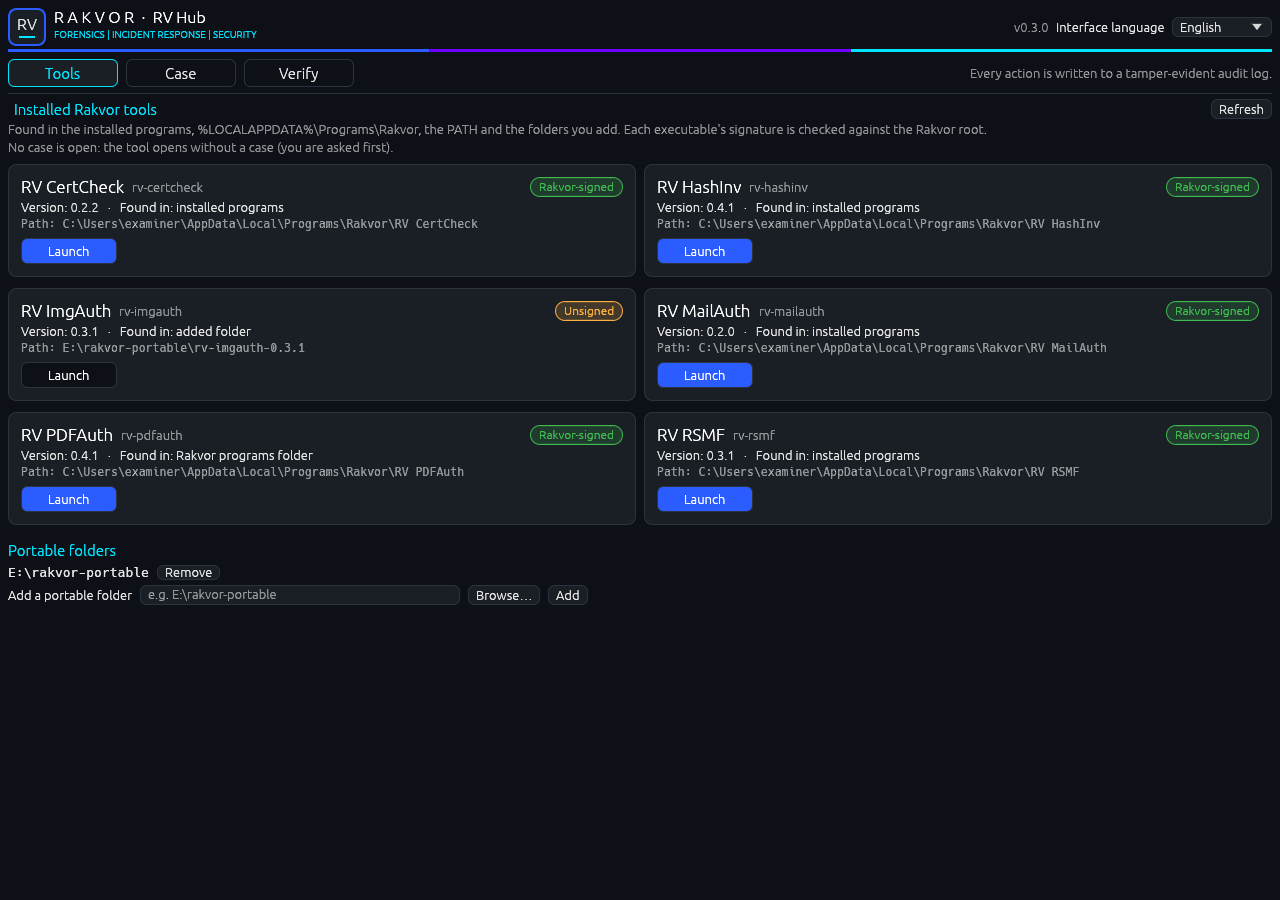
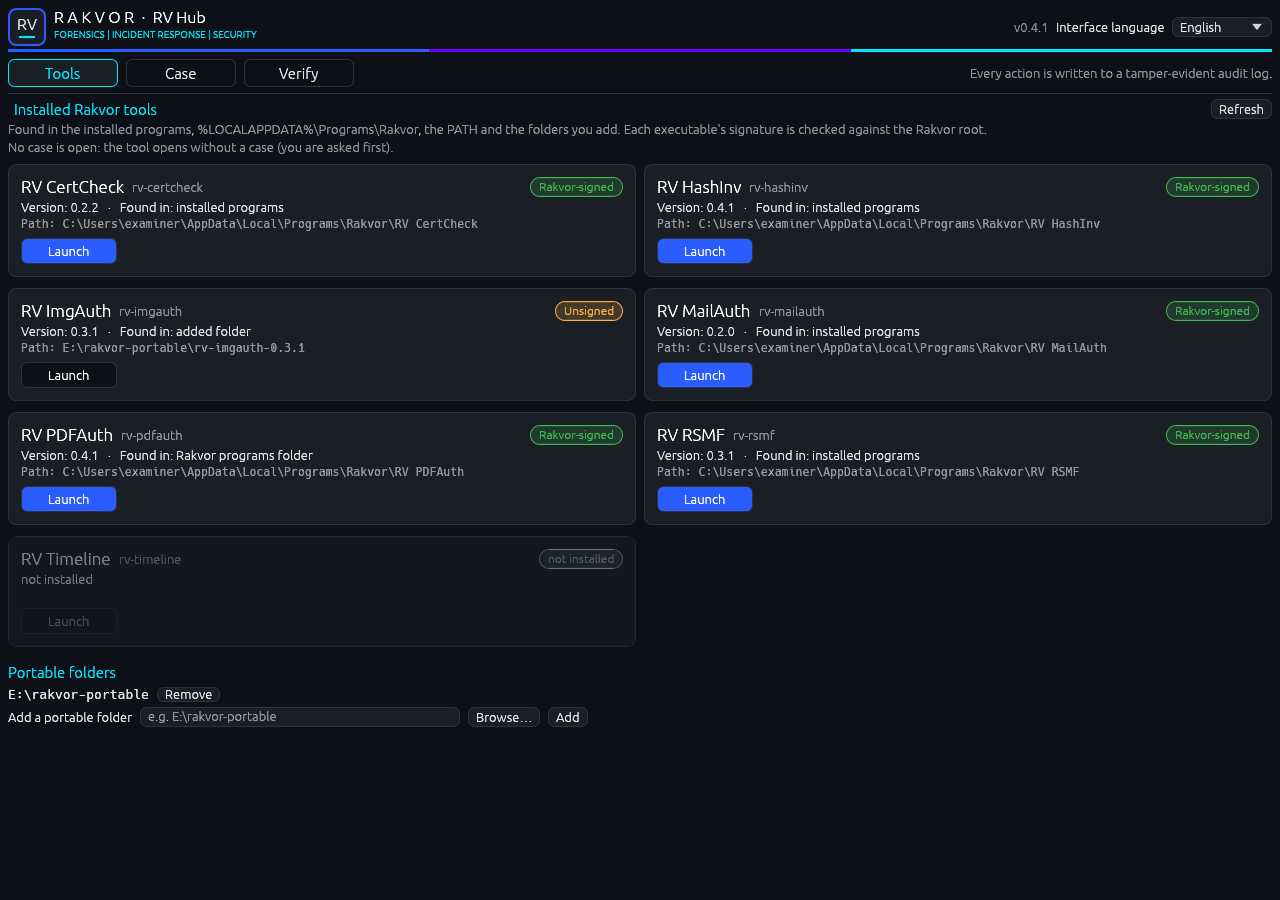
docs: RV Timeline as the seventh known tool, the timeline suggestion rule, screenshots
README, usage, usage-gui, theory (B1 AppIds, B10 rule and diagram), architecture,
case-folder, admissibility, HANDOFF and CHANGELOG list rv-timeline. The Tools and
Case screenshots are regenerated: RV Timeline (not released) is shown not installed,
and the sample case's suggestion is now timeline_not_built.

diff --git a/docs/theory.md b/docs/theory.md
@@ -44,7 +44,7 @@ whether they are genuine, to open a tool on a case, to see what has been done in
 and, before a case is handed over, to check that nothing recorded in the case has changed.
 
 RV Hub does **not** examine evidence. It does not decide whether a document is forged or a photo edited; the
-analysis tools (rv-pdfauth, rv-imgauth, rv-certcheck, rv-mailauth) report signals for an examiner to weigh, and each of them
+analysis tools (rv-pdfauth, rv-imgauth, rv-certcheck, rv-mailauth, rv-timeline) report signals for an examiner to weigh, and each of them
 documents its own method. RV Hub never changes what the tools wrote. When it finds a problem, it reports it and
 leaves the files exactly as they were, so the examiner can explain them.
 
@@ -63,7 +63,7 @@ Only the intake tool, rv-hashinv, opens a new binder and adds evidence to the re
 
 ```mermaid
 flowchart LR
-    I["1 · Intake<br/>rv-hashinv registers E0001…"] --> A["2 · Analysis<br/>rv-pdfauth · rv-imgauth<br/>rv-rsmf · rv-certcheck<br/>rv-mailauth"]
+    I["1 · Intake<br/>rv-hashinv registers E0001…"] --> A["2 · Analysis<br/>rv-pdfauth · rv-imgauth<br/>rv-rsmf · rv-certcheck<br/>rv-mailauth · rv-timeline"]
     A --> V["3 · Verify<br/>RV Hub checks every diary<br/>and every link"]
     V --> H["4 · Hand over<br/>case folder + verification report"]
     I -.-> C[("Case folder")]
@@ -160,14 +160,14 @@ Source map (all under `src/core/src/`): discovery `tools.rs`; signature `signatu
 
 | # | Source (`Source`) | What is read | Restriction |
 | --- | --- | --- | --- |
-| 1 | `registry {app_id}` | `HKCU\Software\Microsoft\Windows\CurrentVersion\Uninstall\{AppId}_is1` → `InstallLocation`, `DisplayVersion`, for the six AppIds in `APP_IDS` (Windows only) | the six known tools; another `rv-*` only when Rakvor-signed |
-| 2 | `local_programs` | every direct subfolder of `%LOCALAPPDATA%\Programs\Rakvor` | the six known tools; another `rv-*` only when Rakvor-signed |
-| 3 | `path` | every folder of `PATH` | **the six known tools only** (`KNOWN_TOOLS`) |
+| 1 | `registry {app_id}` | `HKCU\Software\Microsoft\Windows\CurrentVersion\Uninstall\{AppId}_is1` → `InstallLocation`, `DisplayVersion`, for the seven AppIds in `APP_IDS` (Windows only) | the seven known tools; another `rv-*` only when Rakvor-signed |
+| 2 | `local_programs` | every direct subfolder of `%LOCALAPPDATA%\Programs\Rakvor` | the seven known tools; another `rv-*` only when Rakvor-signed |
+| 3 | `path` | every folder of `PATH` | **the seven known tools only** (`KNOWN_TOOLS`) |
 | 4 | `user_folder` | each folder the user added, and its direct subfolders | any `rv-*` |
 
 `rv-hub` itself is excluded. A name outside `KNOWN_TOOLS` is run (`describe --json`) only from a folder the user
 added, or when its executable is Rakvor-signed; otherwise it is neither run nor listed. On Linux and macOS, where
-signatures are *not checked*, only the six known tools are run from sources 1–3. When several sources find the same folder, the entry is listed once with every source
+signatures are *not checked*, only the seven known tools are run from sources 1–3. When several sources find the same folder, the entry is listed once with every source
 (the sample test finds one rv-pdfauth folder through the registry, the install folder and `PATH`). The same tool in
 two different folders gives two entries; `launch` then prefers a Rakvor-signed GUI, then the lowest source, then the
 folder name (`src/cli/src/hub.rs` `pick`).
@@ -182,6 +182,7 @@ The known AppIds (`tools.rs` `APP_IDS`):
 | `{04A0C3C3-4929-42ED-81F7-93DB361940C8}` | rv-imgauth (corrected AppId, from 0.2.1) | |
 | `{32343DE5-B0E4-4454-8A42-A5CF82EEC9BF}` | rv-certcheck | |
 | `{0D5428B0-B438-4B0F-804F-C48582CC8A7B}` | rv-mailauth | |
+| `{BE690C03-DA5F-42F0-9284-A86D5FF89D0E}` | rv-timeline | |
 
 A test (`installer_app_ids_are_unique`) checks that these and the hub's own installer AppId
 `{703D49A5-7B83-4C62-A97F-ED13C341CC23}` are all different.
@@ -607,8 +608,9 @@ anything either.
 | --- | --- | --- |
 | `case.json` missing or without `case_id` | the intake tool | `no_case` |
 | a case with no registered evidence | the intake tool | `no_evidence` |
-| for each non-intake tool that does not accept "any file", in the order rv-pdfauth, rv-imgauth, rv-rsmf, rv-certcheck, rv-mailauth, then others: registered items that are not superseded, not yet examined by that tool, and that it accepts | that tool, with the evidence ids | `pdf_not_analysed`, `images_not_analysed`, `chats_not_converted`, `certs_not_analysed`, `mail_not_analysed`, `not_examined` |
+| for each non-intake tool that does not accept "any file" (rv-timeline excepted: it reads the case folder, never an evidence file), in the order rv-pdfauth, rv-imgauth, rv-rsmf, rv-certcheck, rv-mailauth, then others: registered items that are not superseded, not yet examined by that tool, and that it accepts | that tool, with the evidence ids | `pdf_not_analysed`, `images_not_analysed`, `chats_not_converted`, `certs_not_analysed`, `mail_not_analysed`, `not_examined` |
 | Outlook `.msg` files whose message class cannot be read or is neither an email nor a Teams message, examined by neither rv-rsmf nor rv-mailauth | rv-rsmf and rv-mailauth (after each tool's own suggestion) | `msg_ambiguous` |
+| completed runs of two or more tools whose role is intake or analysis (RV Hub's and rv-timeline's own runs excluded), and no completed rv-timeline run newer than the newest of them | rv-timeline | `timeline_not_built` (no completed timeline run), `timeline_outdated` (with the runs the newest timeline does not cover) |
 | runs whose timestamp status is pending | `<tool> timestamp`, with the run folders | `timestamp_pending` |
 
 "Accepts" (`suggest::accepts`) uses the catalogue: each discovered tool's `describe`, completed by the built-in table
@@ -646,6 +648,27 @@ flowchart TD
 ambiguous `.msg` that either tool has already examined is not suggested again: the examiner has decided what it is.
 The class is a property written by the program that saved the file; it says what the item claims to be, not that it
 is authentic.
+
+**The case timeline (rv-timeline).** rv-timeline puts the events of the case log and of every other tool's runs in
+one timeline; it reads the case folder, so its `accepts` list (`.json`, `.jsonl`) is never matched against
+registered evidence. `suggest::timeline` counts the tools with at least one **completed** run whose role is intake or
+analysis: the role the run recorded in the case log (`run_started.details.role`; rv-rsmf's runs record
+"analysis"), else the tool's described role. RV Hub (`rv-hub`) and rv-timeline itself are not counted. With fewer
+than two such tools, nothing is suggested. Otherwise a completed rv-timeline run **covers** a counted run when it
+started (`ts_utc` of its `run_started`) after that run finished (`run_finished`, else `run_started`), or, when a
+time is missing, when it comes later in the case log. No completed timeline run: `timeline_not_built`. Completed
+timeline runs, none covering every counted run: `timeline_outdated`, with the counted runs the newest timeline does
+not cover in `run_dirs`. A failed, cancelled or unfinished rv-timeline run is ignored.
+
+```mermaid
+flowchart TD
+    R["completed runs of intake / analysis tools<br/>(not rv-hub, not rv-timeline)"] --> N{"two or more tools?"}
+    N -- "no" --> X["no timeline suggestion"]
+    N -- "yes" --> T{"completed rv-timeline run?"}
+    T -- "none" --> NB["rv-timeline: timeline_not_built"]
+    T -- "one started after the newest run finished" --> X
+    T -- "all older than some run" --> O["rv-timeline: timeline_outdated<br/>(runs not covered)"]
+```
 
 Consequence seen in the sample: the registry records the paths the evidence had at intake (a temporary folder that no
 longer exists), so without `--evidence-dir` the hub cannot read the files and suggests nothing for the `.txt` items;

diff --git a/README.md b/README.md
@@ -10,17 +10,17 @@
 ![License](https://img.shields.io/badge/license-Rakvor%20source--auditable-6B00FF)
 ![Windows 10/11](https://img.shields.io/badge/Windows-10%20%7C%2011-0078D6)
 
-RV Hub is the one window an examiner opens first. The six Rakvor tools stay separate, separately signed
+RV Hub is the one window an examiner opens first. The seven Rakvor tools stay separate, separately signed
 programs; the hub sits beside them and does five things:
 
-1. **Finds** the installed tools (rv-hashinv, rv-pdfauth, rv-imgauth, rv-rsmf, rv-certcheck, rv-mailauth), with their
+1. **Finds** the installed tools (rv-hashinv, rv-pdfauth, rv-imgauth, rv-rsmf, rv-certcheck, rv-mailauth, rv-timeline), with their
    version and the SHA-256 of each executable.
 2. **Checks** each tool's Authenticode signature, and that its certificate chain ends at the Rakvor root bundled in
    the hub (Windows).
 3. **Launches** a tool's desktop app on a case folder (`<tool>-gui.exe --case-dir CASE`), and records which
    executable was started, on which case, by whom.
 4. **Shows** a read-only case dashboard: evidence, runs, findings by severity, timestamp status, and suggested next
-   steps (which tool has not yet examined which item).
+   steps (which tool has not yet examined which item, and when to build or rebuild the case timeline).
 5. **Verifies the whole case** (`rv-hub verify`): the case log, every run's audit log, review log and timestamps, the
    links between them, and optionally every evidence file again; then it asks each run's own tool to verify its logs
    too (`<tool> verify-log`) and compares the two answers.
@@ -35,11 +35,12 @@ flowchart LR
         T4[["rv-rsmf"]]
         T5[["rv-certcheck"]]
         T6[["rv-mailauth"]]
+        T7[["rv-timeline"]]
     end
     CASE[("Case folder<br/>case.json · case-log.jsonl<br/>evidence/ · runs/")]
-    HUB -- "discover + signature check" --> T1 & T2 & T3 & T4 & T5 & T6
+    HUB -- "discover + signature check" --> T1 & T2 & T3 & T4 & T5 & T6 & T7
     HUB -- "launch --case-dir" --> T2
-    T1 & T2 & T3 & T4 & T5 & T6 -- "each writes its own run" --> CASE
+    T1 & T2 & T3 & T4 & T5 & T6 & T7 -- "each writes its own run" --> CASE
     HUB -. "reads (dashboard)" .-> CASE
     HUB -- "verify: writes only runs/rv-hub/ + 2 case-log entries" --> CASE
     HUB -- "cross-check: verify-log" --> T2
@@ -48,7 +49,7 @@ flowchart LR
 ## Contents
 
 - [What it does, and what it does not do](#what-it-does-and-what-it-does-not-do)
-- [The six tools and how they are found](#the-six-tools-and-how-they-are-found)
+- [The seven tools and how they are found](#the-seven-tools-and-how-they-are-found)
 - [Install](#install)
 - [Quick start: desktop app](#quick-start-desktop-app)
 - [Quick start: command line](#quick-start-command-line)
@@ -70,7 +71,7 @@ flowchart LR
 | Ask each run's own tool for its `verify-log` verdict and report any disagreement (high severity) | Prove that a tool's findings are correct, or that the evidence is authentic: verification shows integrity, not content |
 | Write its verification as a run of its own (`runs/rv-hub/<RUN-ID>/`), linked in the case log | Write anything else in the case: two case-log entries (`run_started`, `run_finished`) are its only change outside its own run folder |
 
-## The six tools and how they are found
+## The seven tools and how they are found
 
 | Tool | Role | Accepts (built-in table) | Repository |
 | --- | --- | --- | --- |
@@ -80,10 +81,16 @@ flowchart LR
 | **rv-rsmf** | conversion: chat exports to RSMF 2.0 | `.txt` (only when it looks like a chat export), `.json`, `.html`, `.htm`, `.msg` (Teams), `.csv` | [Panacota96/rv-rsmf](https://github.com/Panacota96/rv-rsmf) |
 | **rv-certcheck** | analysis: certificates, CRLs, timestamp tokens, keys, CSRs | `.crt .cer .der .pem .p7b .p7c .p12 .pfx .crl .tsr .tst .key .csr`, or DER / PEM content | [Panacota96/rv-certcheck](https://github.com/Panacota96/rv-certcheck) |
 | **rv-mailauth** | analysis: email authenticity signals (.eml, Outlook .msg, .mbox) | `.eml .mbox .msg`, or a compound file (`.msg`) / a first line `From ` (mbox) | [Panacota96/rv-mailauth](https://github.com/Panacota96/rv-mailauth) |
+| **rv-timeline** | analysis: one timeline of the case from the case log and every other tool's runs (`build --case-dir`; not released yet) | the case folder only (its `.json`/`.jsonl` files), never an evidence file | [Panacota96/rv-timeline](https://github.com/Panacota96/rv-timeline) |
 
 An Outlook `.msg` is accepted by both rv-mailauth and rv-rsmf: the case view reads its message class and suggests
 rv-mailauth for an email (`IPM.Note…`), rv-rsmf for a Teams message (`IPM.SkypeTeams.…`), and both when the class
 cannot be read ([theory.md B10](docs/theory.md#b10-the-dashboard-and-the-suggestion-rules)).
+
+rv-timeline reads the case folder, never an evidence file. It is suggested once completed runs of two or more
+intake or analysis tools exist and no completed rv-timeline run started after the newest of them finished
+(`timeline_not_built`, or `timeline_outdated` with the runs the timeline does not cover). RV Hub's own
+verification runs do not count, and a case with runs of fewer than two such tools gets no timeline suggestion.
 
 Discovery looks in four places, in this order, and lists an executable found by several sources once, with every
 source ([theory.md B1](docs/theory.md#b1-discovery)):
@@ -91,7 +98,7 @@ source ([theory.md B1](docs/theory.md#b1-discovery)):
 1. the Windows uninstall registry, `HKCU\Software\Microsoft\Windows\CurrentVersion\Uninstall\{AppId}_is1`, for the
    tools' known installer AppIds;
 2. `%LOCALAPPDATA%\Programs\Rakvor\*\` (where every Rakvor installer puts its tool);
-3. the folders of `PATH` (the six known tool names only);
+3. the folders of `PATH` (the seven known tool names only);
 4. folders you add (for example portable zips on a USB stick), and their direct subfolders.
 
 Each Rakvor-signed tool is asked `describe --json` (schema `rakvor.describe/1`, 10 s limit) for its version and what

diff --git a/docs/architecture.md b/docs/architecture.md
@@ -4,7 +4,7 @@ One engine, two front-ends. The engine (`src/core`, crate `rv_hub_core`) does al
 CLI and the GUI turn user input into calls of its public API and render what it returns (for the main verb, the
 `Event` stream). Both interfaces therefore produce identical logs and reports.
 
-RV Hub is the main app of the six Rakvor tools (rv-hashinv, rv-pdfauth, rv-imgauth, rv-rsmf, rv-certcheck, rv-mailauth). Each tool stays a
+RV Hub is the main app of the seven Rakvor tools (rv-hashinv, rv-pdfauth, rv-imgauth, rv-rsmf, rv-certcheck, rv-mailauth, rv-timeline). Each tool stays a
 separate signed program; the hub discovers them, checks their signatures, launches them on a case folder, shows a
 read-only case dashboard with next-step suggestions, and verifies the whole case.
 
@@ -151,7 +151,7 @@ sequenceDiagram
 ```
 
 Run items carry two verdicts. **Full** is exactly `verify::verify_log` (chain, timestamp tokens, review log,
-truncation against the timestamp and the case log, and the re-hash of the recorded outputs, `outputs.rs`): what rv-hashinv, rv-rsmf, rv-certcheck and rv-mailauth's
+truncation against the timestamp and the case log, and the re-hash of the recorded outputs, `outputs.rs`): what rv-hashinv, rv-rsmf, rv-certcheck, rv-mailauth and rv-timeline's
 `verify-log` answer. **Chain** leaves out the truncation check against the case log: what rv-pdfauth and rv-imgauth's current
 `verify-log` answer ([rv-hub#21](https://github.com/Panacota96/rv-hub/issues/21)). The cross-check accepts the
 tool's verdict when it equals the full one, or, for rv-pdfauth and rv-imgauth only (no truncation check), the
@@ -196,7 +196,9 @@ hash they cover (`trust::verify_timestamps`), not for the TSA's CMS signature.
 at most the first few kilobytes of an evidence file, read-only, and only when it exists. For an Outlook `.msg` (or
 any compound file) it also reads the MAPI message class with the `cfb` crate, read-only, to choose between
 rv-mailauth (email) and rv-rsmf (Teams), or to suggest both when the class is unreadable
-([theory.md B10](theory.md#b10-the-dashboard-and-the-suggestion-rules)).
+([theory.md B10](theory.md#b10-the-dashboard-and-the-suggestion-rules)). rv-timeline is suggested from the runs
+table, not from the evidence: once two or more intake/analysis tools have completed runs and no completed timeline
+run is newer than the newest of them.
 
 ## GUI state
 

diff --git a/docs/admissibility.md b/docs/admissibility.md
@@ -83,7 +83,7 @@ annex of Implementing Regulation (EU) 2025/1929.
 ```mermaid
 flowchart LR
     A["Acquisition<br/>(imaging, write-blocker:<br/>outside the toolkit)"] --> B["Intake<br/>rv-hashinv registers E0001…"]
-    B --> C["Analysis / conversion<br/>rv-pdfauth · rv-imgauth<br/>rv-rsmf · rv-certcheck · rv-mailauth"]
+    B --> C["Analysis / conversion<br/>rv-pdfauth · rv-imgauth<br/>rv-rsmf · rv-certcheck · rv-mailauth<br/>rv-timeline"]
     C --> D["Verification<br/>RV Hub verify (H6–H9)"]
     D --> E["Report and testimony<br/>(examiner)"]
     T["Tool identity<br/>H1 · H2 · H3 · H4"] -.-> B
@@ -275,7 +275,7 @@ These are stated here so that nobody has to find them by cross-examination. Each
    matching evidence hash does not make the evidence authentic, nor show anything that happened before intake. A
    timestamp proves when a log existed, not that the examined copy matches the original source.
 4. **The tools' `verify-log` commands differ** ([rv-hub#21](https://github.com/Panacota96/rv-hub/issues/21)).
-   rv-hashinv, rv-rsmf, rv-certcheck and rv-mailauth check the run against the case log; rv-pdfauth and rv-imgauth do not. For
+   rv-hashinv, rv-rsmf, rv-certcheck, rv-mailauth and rv-timeline check the run against the case log; rv-pdfauth and rv-imgauth do not. For
    these two only, the hub accepts an answer that equals either its full or its chain-only verdict; where the two
    verdicts differ (truncation against the case log, or a broken case log), the cross-check cannot detect that they
    miss that check. Every other tool is compared with the full verdict. The hub's own `RUN_LOG_BROKEN` / `CASE_LOG_BROKEN` findings are unaffected

diff --git a/docs/usage.md b/docs/usage.md
@@ -111,7 +111,7 @@ Runs:
 Problems: none
 
 Suggested next steps:
-  No suggestion: every registered item has been examined.
+  - rv-hub launch rv-timeline: Runs of two or more tools are complete and no case timeline has been built yet: RV Timeline puts their events in one timeline.
 ```
 
 The numbers come from the tools' own `statistics.json`, as they are: this is a summary, not a verification. A
@@ -122,7 +122,10 @@ with an email header block) are suggested to rv-mailauth. An Outlook `.msg` goes
 cannot be read (a damaged or missing file) or is another one, both are suggested with the reason "the file type is
 ambiguous" (`msg_ambiguous`): open it with the tool that fits. When the evidence is no longer at its registered
 path, give its folder so the hub can look inside: `rv-hub case --case-dir D:\cases\CASE-2026-014 --evidence-dir
-F:\copies` ([theory.md B10](theory.md#b10-the-dashboard-and-the-suggestion-rules)). Decide yourself; ignoring a
+F:\copies` ([theory.md B10](theory.md#b10-the-dashboard-and-the-suggestion-rules)). rv-timeline reads the case folder, never an evidence file. It is suggested once completed runs of two or more
+intake or analysis tools exist and no completed rv-timeline run started after the newest of them finished
+(`timeline_not_built`, or `timeline_outdated` with the runs the timeline does not cover). RV Hub's own
+verification runs do not count, and a case with runs of fewer than two such tools gets no timeline suggestion. In the sample, four tools' runs are complete and there is no timeline yet. Decide yourself; ignoring a
 suggestion has no effect on the case.
 
 ### 2.4 Launch the analysis tools

diff --git a/docs/HANDOFF.md b/docs/HANDOFF.md
@@ -82,7 +82,8 @@ variables or prompts and never logged; no GPL/AGPL/LGPL components; tools report
 
 ## 6. Open work
 
-- Known tools (`tools::KNOWN_TOOLS`): rv-hashinv, rv-pdfauth, rv-imgauth, rv-rsmf, rv-certcheck, rv-mailauth. A new
+- Known tools (`tools::KNOWN_TOOLS`): rv-hashinv, rv-pdfauth, rv-imgauth, rv-rsmf, rv-certcheck, rv-mailauth,
+  rv-timeline. A new
   tool needs its entry in `KNOWN_TOOLS`, `APP_IDS` and `builtin` (`src/core/src/tools.rs`), a reason key in
   `suggest.rs` and `i18n/*.json` (`suggest`), and the docs that list the tools.
 - `.msg` routing between rv-mailauth and rv-rsmf relies on PR_MESSAGE_CLASS (`suggest::MsgKind`); it was tested on
@@ -95,7 +96,7 @@ variables or prompts and never logged; no GPL/AGPL/LGPL components; tools report
   (`RUN_OUTPUT_CHANGED`, high, one per file; tally `runs_outputs_changed`). Tool releases made before their
   `verify-log` re-hashed outputs answer *intact* on a run with an edited report: the hub reports that as
   `TOOL_VERIFY_DISAGREES` with the reason ([ADR 0004](adr/0004-case-verdicts-and-cross-check.md), decision 5). It
-  goes away as each tool ships `outputs.rs` (rv-hashinv and rv-certcheck have it; rv-rsmf, rv-imgauth, rv-pdfauth,
+  goes away as each tool ships `outputs.rs` (rv-hashinv, rv-certcheck and rv-timeline have it; rv-rsmf, rv-imgauth, rv-pdfauth,
   rv-mailauth to do). The forge's Python template has no equivalent yet.
 - RUSTSEC-2023-0071 is a documented exception until a stable `cms` 0.3 (rsa 0.10) exists ([ADR 0003](adr/0003-dependency-advisories.md)).
 

diff --git a/docs/usage-gui.md b/docs/usage-gui.md
@@ -24,7 +24,7 @@ flowchart LR
 ![Tools tab](images/hub-tools.png)
 
 One card per tool found in the installed programs, `%LOCALAPPDATA%\Programs\Rakvor`, the `PATH` and the folders you
-add. A known tool (rv-hashinv, rv-pdfauth, rv-imgauth, rv-rsmf, rv-certcheck, rv-mailauth) that is not found is
+add. A known tool (rv-hashinv, rv-pdfauth, rv-imgauth, rv-rsmf, rv-certcheck, rv-mailauth, rv-timeline) that is not found is
 shown dimmed as *not installed*. Each card shows the version, where it was
 found, the install path and the signature badge of the GUI executable:
 
@@ -61,6 +61,8 @@ you are asked again or the launch is refused (refresh the list).
   a PDF, an image or an email, an Outlook `.msg` whose message class says email or Teams) look for it there by file name, as `rv-hub case --evidence-dir` does. It is the same value as
   the Verify tab's re-hash folder; a folder that does not exist is refused.
 - **Suggested next steps**, each with its reason and a one-click button that opens the suggested tool on the case.
+  RV Timeline is suggested once runs of two or more tools are complete and the case has no timeline newer than
+  them (in the screenshot it is not installed, so the line says so instead of offering the button).
 
 The view is read-only: nothing in the case folder is changed. It is read again with **Refresh** and whenever the
 window regains the focus (for example after closing a tool that added a run).

diff --git a/CHANGELOG.md b/CHANGELOG.md
@@ -17,6 +17,14 @@ The format follows [Keep a Changelog](https://keepachangelog.com/en/1.1.0/) and 
   class (read-only, `cfb` crate): `IPM.Note*` to rv-mailauth, `IPM.SkypeTeams.*` to rv-rsmf, both when the class
   cannot be read or is another one (`msg_ambiguous`). A compound file that is not a message (`.doc`, `.xls`) is no
   longer suggested to rv-rsmf.
+* **core:** RV Timeline (`rv-timeline`, one timeline of the case from the case log and every run) is the seventh known
+  tool: discovery (installer AppId `{BE690C03-DA5F-42F0-9284-A86D5FF89D0E}`, install folder, PATH), signature check,
+  launch with `--case-dir`, built-in description (analysis, `build`), review-log and recorded-output checks, and its
+  own `verify-log` in the cross-check (full verdict). Not released yet: the Tools tab shows it as not installed.
+* **core:** suggestions: rv-timeline once completed runs of two or more intake/analysis tools exist and no completed
+  rv-timeline run is newer than the newest of them (`timeline_not_built`, `timeline_outdated` with the runs not
+  covered). Never for an evidence file, never for a case with fewer than two tools' runs. `schemas/hub-case.schema.json`
+  lists every reason key (`mail_not_analysed`, `msg_ambiguous` were missing).
 
 ## [0.4.1](https://github.com/Panacota96/rv-hub/compare/v0.4.0...v0.4.1) (2026-11-14)
 

diff --git a/docs/case-folder.md b/docs/case-folder.md
@@ -78,7 +78,7 @@ The rules:
 | Role | Tools | In the case |
 | --- | --- | --- |
 | intake | rv-hashinv | creates `case.json` and the case log; registers evidence; the only role that may open a folder without `case.json` |
-| analysis | rv-pdfauth, rv-imgauth, rv-certcheck, rv-mailauth, **and RV Hub** (`CASE_ROLE`) | re-hashes registered items and compares them with the registry; links its run |
+| analysis | rv-pdfauth, rv-imgauth, rv-certcheck, rv-mailauth, rv-timeline (reads the other runs, writes `reports/timeline.jsonl`), **and RV Hub** (`CASE_ROLE`) | re-hashes registered items and compares them with the registry; links its run |
 | conversion | rv-rsmf | like analysis, and writes derived files (RSMF) in its own run folder |
 
 The hub is recorded as an analysis tool because `rakvor.describe/1` and the case log have no "hub" role; its
